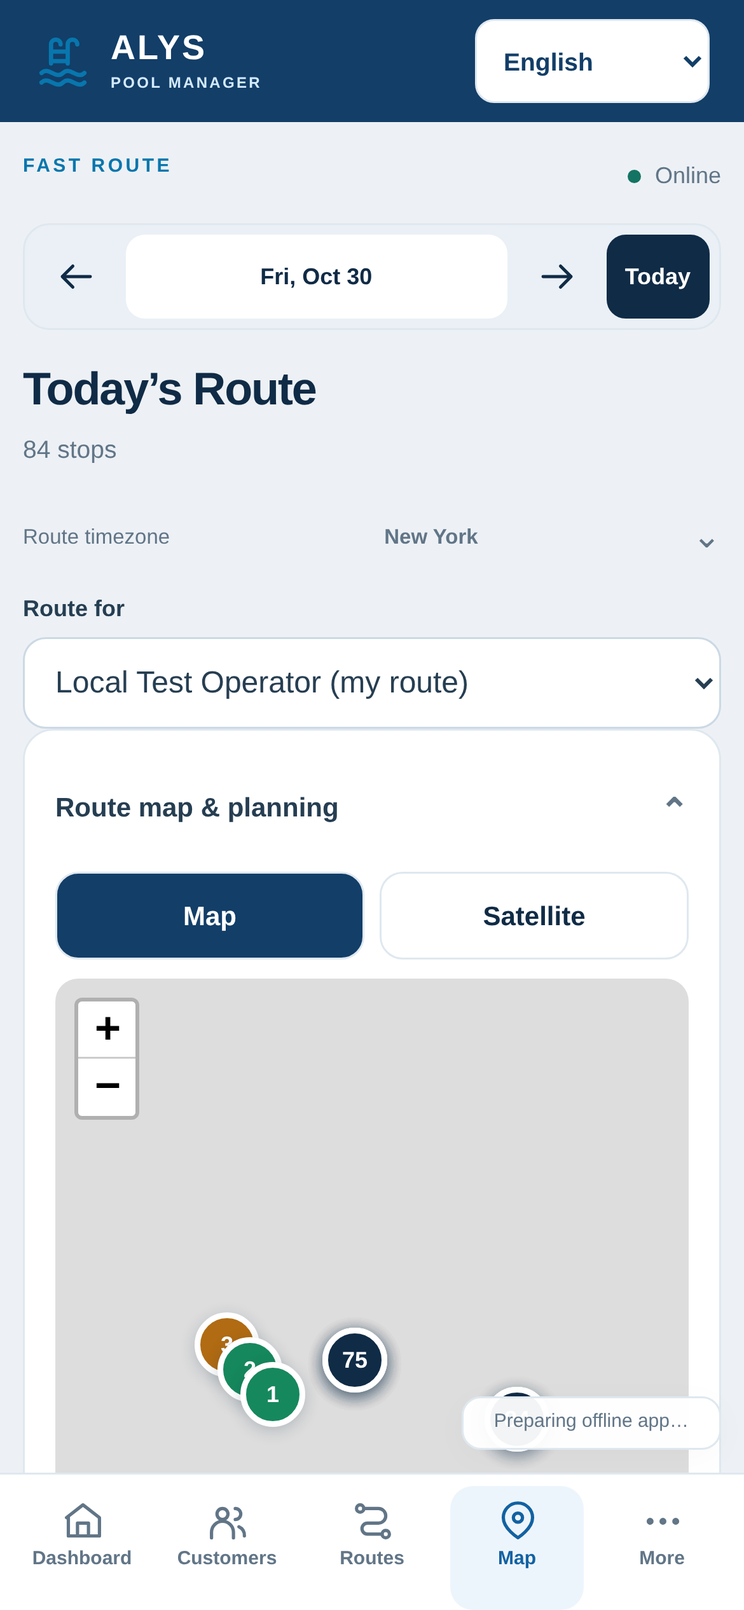
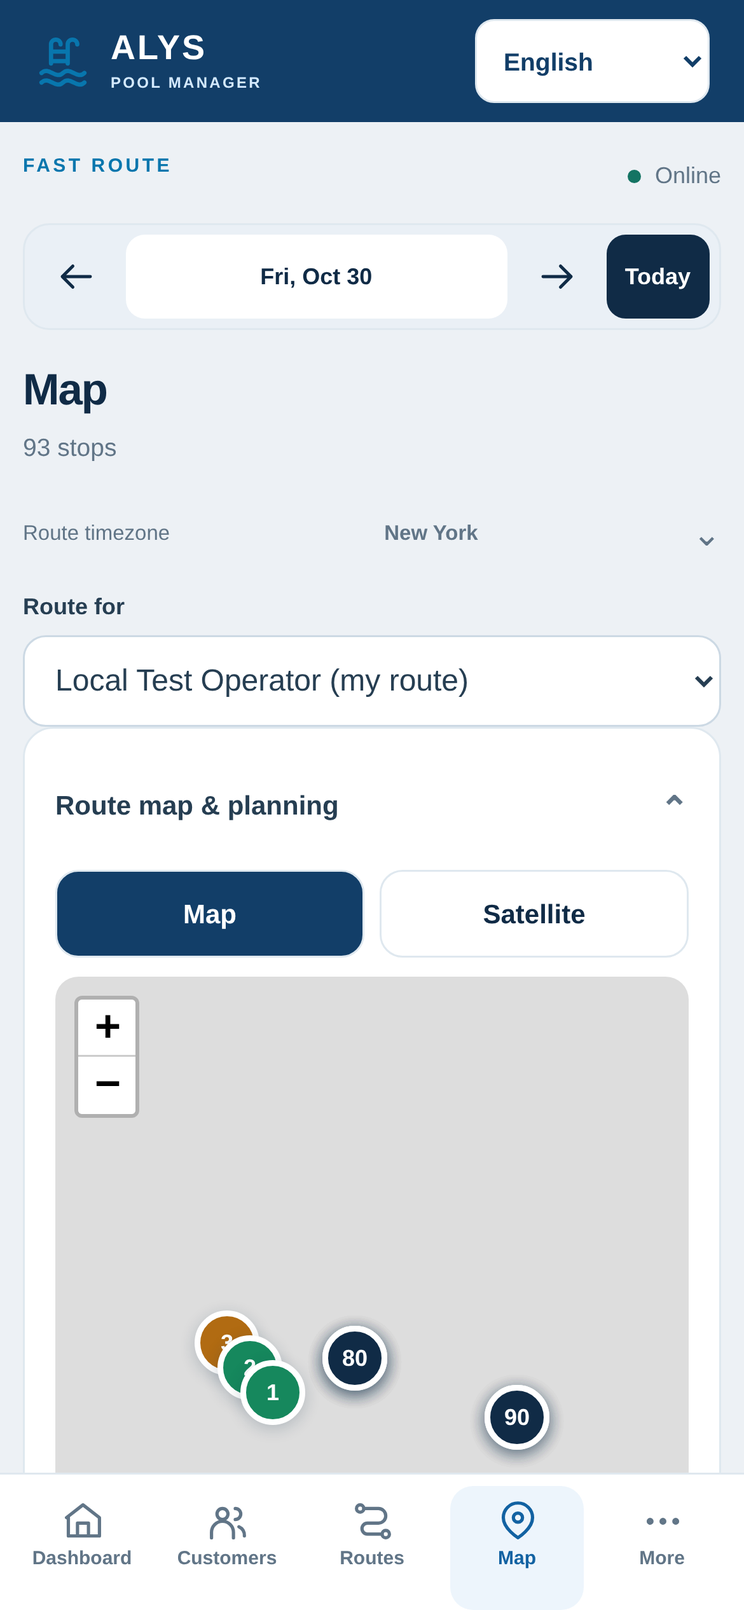
refine: compact V2.3 route overview and technician service controls

diff --git a/src/components/field/field-app.tsx b/src/components/field/field-app.tsx
@@ -234,9 +234,9 @@ export function FieldApp({initialStopId,initialDate,initialTimeZone="America/New
     {route&&scope&&(currentMode&&!routeList&&!stop?<CurrentPool route={route} stop={current} pending={queue.length} onStart={startStop} onRoute={()=>{setRouteList(true);openStop(null,'route');}} onDate={day=>{setDate(day);setRoute(null);setLoading(true);if(!offline)window.history.replaceState(null,'',`/service?date=${day}&timezone=${encodeURIComponent(timeZone)}`);}}/>:stop&&['completed','skipped'].includes(stop.status)&&!queuedIds.has(stop.id)?<div className="field-empty"><h1>{stop.property.name||stop.customer.name}</h1><p><T text={stop.status==='completed'?'This stop is already completed. Review its saved history.':'This stop was skipped. Restore it from your route before starting.'}/></p><button className="btn btn-secondary" onClick={()=>{setRouteList(true);openStop(null,'route');}}><T text="View all stops"/></button><Link className="btn btn-primary" href="/history"><T text="View history"/></Link></div>:stop?<VisitEditor unitSystem={route?.unitSystem} key={stop.id} stop={stop} index={serviceStops.indexOf(stop)+1} total={serviceStops.length} scope={scope} syncPanel={<>{workspaceAlerts}{syncPanel}</>} queued={queuedIds.has(stop.id)} onBack={()=>{setRouteList(true);openStop(null,'route');}} onPrevious={serviceStops.slice(0,serviceStops.findIndex(s=>s.id===stop.id)).reverse().find(s=>!['completed','skipped'].includes(s.status)&&!queuedIds.has(s.id))?()=>startStop(serviceStops.slice(0,serviceStops.findIndex(s=>s.id===stop.id)).reverse().find(s=>!['completed','skipped'].includes(s.status)&&!queuedIds.has(s.id))!):undefined} onNext={serviceStops.slice(serviceStops.findIndex(s=>s.id===stop.id)+1).find(s=>!['completed','skipped'].includes(s.status)&&!queuedIds.has(s.id))?()=>startStop(serviceStops.slice(serviceStops.findIndex(s=>s.id===stop.id)+1).find(s=>!['completed','skipped'].includes(s.status)&&!queuedIds.has(s.id))!):undefined} onSkip={()=>{setSkipTarget(stop);setSkipReason('');skipRequest.current=crypto.randomUUID();}} onComplete={completed}/>:<>
       {activeStopId&&!stop&&<p className="field-alert field-alert-warning"><T text="This stop is not in the selected route or is no longer assigned to you."/></p>}
       <RouteDateNavigation date={date} timeZone={timeZone} onChange={day=>{setDate(day);setActiveStopId(null);setLoading(true);setRoute(null);if(!offline)window.history.replaceState(null,'',`${mapMode?'/maps':isDaily?'/stops':'/route'}?date=${day}&timezone=${encodeURIComponent(timeZone)}`);}}/>
-      <header className="field-top"><div><h1 className="field-heading"><T text={isDaily?(date===serviceDay(new Date(),timeZone)?"Today’s Stops":"Assigned Stops"):"Today’s Route"}/></h1><p className="field-subtitle"><span className="route-heading-date"><DateText value={date} options={{weekday:'long',month:'short',day:'numeric',timeZone}}/> · </span>{displayStops.length} <T text="stop"/>{displayStops.length===1?'':<T text={'s'}/>}</p></div></header>
+      <header className="field-top"><div><h1 className="field-heading"><T text={mapMode?'Map':isDaily?(date===serviceDay(new Date(),timeZone)?"Today’s Stops":"Assigned Stops"):"Today’s Route"}/></h1><p className="field-subtitle"><span className="route-heading-date"><DateText value={date} options={{weekday:'long',month:'short',day:'numeric',timeZone}}/> · </span>{displayStops.length} <T text="stop"/>{displayStops.length===1?'':<T text={'s'}/>}</p></div></header>
       <details className="route-timezone-control"><summary><T text="Route timezone"/><span>{timeZone.split("/").at(-1)?.replaceAll("_"," ")}</span></summary><label className="field-input-label"><T text="Route timezone"/><select value={timeZone} onChange={e=>{const zone=e.target.value,day=serviceDay(new Date(),zone);setTimeZone(zone);setDate(day);if(!offline)window.history.replaceState(null,"",`${isDaily?"/stops":"/route"}?date=${day}&timezone=${encodeURIComponent(zone)}`);}}>{[...new Set([timeZone,'America/New_York','America/Sao_Paulo'])].map(tz=><option key={tz} value={tz}>{tz}</option>)}</select></label></details><div className="field-row">{route.role!=='technician'&&<label className="field-input-label field-grow"><T text="Route for"/><LocaleSelect value={selectedTechnician??route.userId} onChange={event=>setTechnician(event.target.value)}><option value="all"><T text="All technicians"/></option>{route.technicians?.map(person=><option key={person.id} value={person.id}>{person.display_name}{person.id===route.userId?<T text={" (my route)"}/>:''}</option>)}</LocaleSelect></label>}</div>
-      {<WeekCalendar timeZone={timeZone} date={date} onChange={day=>{setDate(day);setActiveStopId(null);}}/>}<div className="route-progress-ring" style={{background:`conic-gradient(var(--blue) ${displayStops.length?completeCount/displayStops.length*360:0}deg,#dce5ee 0)`}}><strong>{completeCount}/{displayStops.length}</strong></div><div className="field-progress" role="progressbar" aria-label={t("Completed visits")} aria-valuemin={0} aria-valuemax={displayStops.length||1} aria-valuenow={completeCount}><span style={{width:`${displayStops.length?completeCount/displayStops.length*100:0}%`}}/></div><div className="field-progress-copy"><strong>{completeCount} / {displayStops.length} <T text="completed · synced"/></strong><span>{remaining} <T text="remaining"/>{selectedQueuedCount?<T text={` · ${selectedQueuedCount} on device`}/>:null}</span></div>
+      {<WeekCalendar timeZone={timeZone} date={date} onChange={day=>{setDate(day);setActiveStopId(null);}}/>}<section className="route-service-summary"><div className="route-progress-ring" style={{background:`conic-gradient(var(--blue) ${displayStops.length?completeCount/displayStops.length*360:0}deg,#dce5ee 0)`}}><strong>{completeCount}/{displayStops.length}</strong></div><div className="field-progress" role="progressbar" aria-label={t("Completed visits")} aria-valuemin={0} aria-valuemax={displayStops.length||1} aria-valuenow={completeCount}><span style={{width:`${displayStops.length?completeCount/displayStops.length*100:0}%`}}/></div><div className="field-progress-copy"><strong>{completeCount} / {displayStops.length} <T text="completed · synced"/></strong><span>{remaining} <T text="remaining"/>{selectedQueuedCount?<T text={` · ${selectedQueuedCount} on device`}/>:null}</span></div></section>
       {isDaily&&<><div className="field-tabs" role="group" aria-label={t("Stop status")}>{['remaining','completed','skipped','all'].map(value=><button key={value} className={`field-button ${stopFilter===value?'':'field-button-secondary'}`} aria-pressed={stopFilter===value} onClick={()=>setStopFilter(value)}><T text={value==='remaining'?'Remaining':value==='completed'?'Completed':value==='skipped'?'Skipped':'All stops'}/></button>)}</div>{route.role!=='technician'&&<Link className="field-back" href="/route"><T text="Open weekly planner"/></Link>}</>}
       <div className={isDaily?'daily-stops':'route-workspace'}><div>{!displayStops.length?<div className="field-empty"><h2><T text={route.role==='technician'?'No assigned stops for this date.':'A clear route, ready to plan.'}/></h2><p><T text={route.role==='technician'?'Contact your owner to assign service stops.':'Add a stop below, or configure recurring service days in Clients.'}/></p></div>:<ol className="field-route-list">{displayStops.filter(item=>!isDaily||stopFilter==='all'||(stopFilter==='skipped'?item.status==='skipped':stopFilter==='completed'?item.status==='completed'||queuedIds.has(item.id):!['completed','skipped'].includes(item.status)&&!queuedIds.has(item.id))).map((item,index)=>{
         const queued=queuedIds.has(item.id),status=queued?(queue.find(q=>q.payload.stop_id===item.id)?.status==='pending'?'queued':'failed'):item.status;
@@ -336,8 +336,8 @@ function VisitEditor({stop,index,total,scope,queued,syncPanel,onBack,onPrevious,
     catch(cause){setError(messageOf(cause));setBusy(false);}
   }
   return <div className="field-service"><div className="service-context"><button className="icon-button" disabled={busy||photoBusy||saveStatus==='Saving draft…'} onClick={onBack} aria-label={t('← Back to route')}><Icon name="back"/></button><div><h1 className="field-heading">{stop.property.name||stop.customer.name}</h1><small>{stop.customer.name} · <T text="Stop"/> {index} / {total}</small></div><span className="field-badge field-badge-in_progress"><T text="In progress"/></span></div><details className="service-context-details"><summary><T text="Address & service instructions"/></summary><p className="field-subtitle">{stop.property.address}</p>{stop.property.gate_notes&&<p className="field-access">{stop.property.gate_notes}</p>}</details>{error&&<p className="field-alert field-alert-error" role="alert"><T text={error}/></p>}{queued&&<p className="field-alert field-alert-warning"><T text="This visit is queued. Retry sync from the route to preserve the saved submission."/></p>}{retiredPools.length>0&&<p className="field-alert field-alert-error" role="alert"><T text="Pool setup changed. This draft retains work for "/>{retiredPools.length} <T text="pool"/>{retiredPools.length===1?'':<T text={'s'}/>} <T text="no longer active at this property. Ask an administrator to restore or review the pool before completing; saved measurements are preserved."/></p>}{!visibleDraft?<div className="field-skeleton"/>:<>
-    <nav className="service-step-nav" aria-label={t('Service sections')}>{[['readings-','Readings'],['chemicals-','Chemicals'],['checklist-','Checklist']].map(([prefix,label])=><a key={prefix} href={'#'+prefix+(activePool==='info'?stop.pools[0]?.id:activePool)} onClick={()=>{if(activePool==='info')setActivePool(stop.pools[0]?.id??'');}}><T text={label}/></a>)}<a href="#service-photo"><T text="Photo"/></a></nav>{<div className="pool-tabs" role="tablist" aria-label={t('Pool / spa')}><button type="button" role="tab" id="tab-service-info" aria-controls="panel-service-info" aria-selected={activePool==='info'} onClick={()=>setActivePool('info')}><T text="Info"/></button>{stop.pools.map((pool,tabIndex)=><button key={pool.id} id={'tab-'+pool.id} type="button" role="tab" aria-selected={activePool===pool.id} aria-controls={'panel-'+pool.id} tabIndex={activePool===pool.id?0:-1} onClick={()=>{setActivePool(pool.id);setPhotoPool(pool.id);}} onKeyDown={event=>{if(!['ArrowRight','ArrowLeft'].includes(event.key))return;event.preventDefault();const next=stop.pools[(tabIndex+(event.key==='ArrowRight'?1:-1)+stop.pools.length)%stop.pools.length];setActivePool(next.id);setPhotoPool(next.id);document.getElementById('tab-'+next.id)?.focus();}}>{pool.name}</button>)}</div>}<div className="service-scroll"><div id="sync-recovery">{syncPanel}</div><div className="service-sequence"><button className="btn btn-secondary" disabled={!onPrevious||busy||photoBusy||saveStatus==='Saving draft…'} onClick={onPrevious}><Icon name="back"/><T text="Previous stop"/></button><button className="btn btn-secondary" disabled={!onNext||busy||photoBusy||saveStatus==='Saving draft…'} onClick={onNext}><T text="Next stop"/><Icon name="arrow"/></button><button className="field-button field-button-quiet field-button-small" disabled={queued||busy||photoBusy||saveStatus==='Saving draft…'} onClick={onSkip}><T text="Skip stop"/></button></div>
-    <section id="panel-service-info" className="field-section" role="tabpanel" aria-labelledby="tab-service-info" hidden={activePool!=='info'}><h2><T text="Info"/></h2><p>{stop.customer.name}</p><p>{stop.property.address}</p><p className="field-access">{stop.property.gate_notes}</p><h3><T text="Equipment and service notes"/></h3><p>{visibleDraft.service_details?.equipment_problems||<T text="No equipment notes."/>}</p><h3><T text="Email report"/></h3><p className="field-reference"><T text="Server-confirmed visits are saved independently of email."/></p><p className="field-reference"><T text="Only checked tasks and recorded values enter the report."/></p></section>{stop.pools.map(config=>{const pool=visibleDraft.pools.find(p=>p.pool_id===config.id);return pool?<div key={config.id} id={'panel-'+config.id} role={stop.pools.length>1?'tabpanel':undefined} aria-labelledby={stop.pools.length>1?'tab-'+config.id:undefined} hidden={activePool!==config.id}><PoolForm onChemicalPending={pendingChemical} preferenceScope={scope.organizationId+':'+scope.userId} unitSystem={effectiveUnits(stop.property.unit_system,unitSystem)} timeZone={stop.property.service_timezone} key={config.id} config={config} value={pool} history={stop.chemistry_history?.[config.id]??[]} previous={stop.last_readings?.[config.id]} disabled={queued||busy} onChange={next=>updatePool(config.id,next)}/></div>:null;})}
+{<div className="pool-tabs" role="tablist" aria-label={t('Pool / spa')}><button type="button" role="tab" id="tab-service-info" aria-controls="panel-service-info" aria-selected={activePool==='info'} onClick={()=>setActivePool('info')}><T text="Info"/></button>{stop.pools.map((pool,tabIndex)=><button key={pool.id} id={'tab-'+pool.id} type="button" role="tab" aria-selected={activePool===pool.id} aria-controls={'panel-'+pool.id} tabIndex={activePool===pool.id?0:-1} onClick={()=>{setActivePool(pool.id);setPhotoPool(pool.id);}} onKeyDown={event=>{if(!['ArrowRight','ArrowLeft'].includes(event.key))return;event.preventDefault();const next=stop.pools[(tabIndex+(event.key==='ArrowRight'?1:-1)+stop.pools.length)%stop.pools.length];setActivePool(next.id);setPhotoPool(next.id);document.getElementById('tab-'+next.id)?.focus();}}>{pool.name}</button>)}</div>}    <nav className="service-step-nav" aria-label={t('Service sections')}>{[['readings-','Readings'],['chemicals-','Chemicals'],['checklist-','Checklist']].map(([prefix,label])=><a key={prefix} href={'#'+prefix+(activePool==='info'?stop.pools[0]?.id:activePool)} onClick={()=>{if(activePool==='info')setActivePool(stop.pools[0]?.id??'');}}><T text={label}/></a>)}<a href="#service-photo"><T text="Photo"/></a></nav><div className="service-scroll"><div id="sync-recovery">{syncPanel}</div><div className="service-sequence"><button className="btn btn-secondary" disabled={!onPrevious||busy||photoBusy||saveStatus==='Saving draft…'} onClick={onPrevious}><Icon name="back"/><T text="Previous stop"/></button><button className="btn btn-secondary" disabled={!onNext||busy||photoBusy||saveStatus==='Saving draft…'} onClick={onNext}><T text="Next stop"/><Icon name="arrow"/></button><button className="field-button field-button-quiet field-button-small" disabled={queued||busy||photoBusy||saveStatus==='Saving draft…'} onClick={onSkip}><T text="Skip stop"/></button></div>
+    <section id="panel-service-info" className="field-section" role="tabpanel" aria-labelledby="tab-service-info" hidden={activePool!=='info'}><h2><T text="Info"/></h2><p>{stop.customer.name}</p><p>{stop.property.address}</p><p className="field-access">{stop.property.gate_notes}</p><h3><T text="Equipment and service notes"/></h3><p>{visibleDraft.service_details?.equipment_problems||<T text="No equipment notes."/>}</p><h3><T text="Email report"/></h3><p className="field-reference"><T text="Server-confirmed visits are saved independently of email."/></p><p className="field-reference"><T text="Only checked tasks and recorded values enter the report."/></p></section>{stop.pools.map(config=>{const pool=visibleDraft.pools.find(p=>p.pool_id===config.id);return pool?<div key={config.id} id={'panel-'+config.id} role="tabpanel" aria-labelledby={'tab-'+config.id} hidden={activePool!==config.id}><PoolForm onChemicalPending={pendingChemical} preferenceScope={scope.organizationId+':'+scope.userId} unitSystem={effectiveUnits(stop.property.unit_system,unitSystem)} timeZone={stop.property.service_timezone} key={config.id} config={config} value={pool} history={stop.chemistry_history?.[config.id]??[]} previous={stop.last_readings?.[config.id]} disabled={queued||busy} onChange={next=>updatePool(config.id,next)}/></div>:null;})}
     <details className="field-section" open={!!visibleDraft.issue_flags?.length}><summary><T text="Issue flags"/></summary><div className="field-issue-flags">{ISSUE_FLAGS.map(flag=><button key={flag} type="button" className="field-shortcut" aria-pressed={visibleDraft.issue_flags?.includes(flag)??false} disabled={busy||queued} onClick={()=>update({...visibleDraft,issue_flags:visibleDraft.issue_flags?.includes(flag)?visibleDraft.issue_flags.filter(f=>f!==flag):[...(visibleDraft.issue_flags??[]),flag]})}><T text={ISSUE_LABELS[flag]}/></button>)}</div><p className="field-tiny"><T text="Flags describe issues; they do not complete checklist tasks or waive required readings and photos."/></p></details>
     <section className="field-section service-anchor" id="service-photo"><p className="field-section-letter"><T text="D · SERVICE PHOTO"/></p><div className="field-section-title"><h2><T text="Show the finished service"/></h2><span className="field-tiny">{photos.length} / 3</span></div>{stop.pools.length>1&&<label className="field-input-label"><T text="Photo for pool / spa"/><LocaleSelect aria-label="Photo for pool / spa" value={photoPool} disabled={photoBusy||queued} onChange={e=>setPhotoPool(e.target.value)}>{stop.pools.map(p=><option key={p.id} value={p.id}>{p.name}</option>)}</LocaleSelect></label>}{photos.length<3&&!queued&&<PhotoCapture busy={photoBusy} disabled={busy} required={stop.pools.some(p=>p.photo_required)} onCapture={capture}/>}<div className="field-photos">{photos.map(photo=><PhotoPreview key={photo.id+(photo.upload_blob?"-prepared":"-source")} photo={photo} readonly={queued||photoBusy||busy} onRemove={()=>{if(queued)return;void removePhoto(scope,photo.id).then(()=>setPhotos(items=>items.filter(item=>item.id!==photo.id))).catch(cause=>setError(messageOf(cause)));}}/>)}</div><p className="field-tiny"><T text={photos.length?"Photos stay on this device until the server confirms the visit. Upload continues when this app is open.":"Capture a photo to save it locally. A preview does not confirm upload."}/></p></section>
     <details className="field-section"><summary><T text="Customer note"/></summary><label className="field-input-label"><T text="Service note "/><span className="field-reference"><T text="Included in the customer report. Do not add gate codes or private notes."/></span><LocaleTextarea maxLength={2000} value={visibleDraft.notes} disabled={queued||busy} placeholder="Optional service information for the customer" onChange={event=>update({...visibleDraft,notes:event.target.value})}/></label></details>

diff --git a/tests/integration/v23-mobile.spec.ts b/tests/integration/v23-mobile.spec.ts
@@ -11,7 +11,7 @@ test('V2.3 five destinations, weekly route, map layers and mobile screens',async
  if(!['localhost','127.0.0.1'].includes(new URL(fixture.url).hostname))throw new Error('Local tests only');
  const db=createClient(fixture.url,process.env.SUPABASE_SERVICE_ROLE_KEY!,{auth:{persistSession:false}}),customer=randomUUID(),property=randomUUID(),stop=randomUUID();
  for(const [table,row] of [['customers',{id:customer,organization_id:fixture.orgId,name:'Fictional V23 customer'}],['properties',{id:property,organization_id:fixture.orgId,customer_id:customer,name:'V23 service property',address:'Fictional service address',latitude:26.12,longitude:-80.13,location_confirmed:true}],['route_stops',{id:stop,organization_id:fixture.orgId,property_id:property,technician_id:fixture.userId,service_date:fixture.date,position:1000}]] as const)expect((await db.from(table).insert(row)).error).toBeNull();
- for(const name of ['Pool','Spa'])expect((await db.from('pools').insert({organization_id:fixture.orgId,property_id:property,name,gallons:name==='Pool'?12000:1000,type:name==='Pool'?'residential':'spa',water_type:'chlorine',required_readings:['fc','ph']})).error).toBeNull();
+ for(const name of ['Pool','Spa'])expect((await db.from('pools').insert({organization_id:fixture.orgId,property_id:property,name,gallons:name==='Pool'?12000:1000,type:name==='Pool'?'residential':'spa',water_type:'chlorine',checklist:['Test Water','Brush Pool'],required_readings:['fc','ph']})).error).toBeNull();
  const screens=[['dashboard','/'],['route','/route'],['map','/maps'],['customers','/customers'],['customer','/customers/'+fixture.stops[0].customerId],['settings','/settings'],['service','/visit/'+stop]];
- for(const language of ['en','pt','es'] as Language[]){await page.getByRole('combobox',{name:/Language|Idioma/}).selectOption(language);for(const [name,url] of screens){await page.goto(url);await expect(page.locator('h1').first()).toBeVisible();if(name==='map')await expect(page.locator('.leaflet-container').first()).toBeVisible();if(['route','service'].includes(name))await expect(page.locator('.route-progress-ring,.field-service').first()).toBeVisible();if(name==='customers')await expect(page.locator('.customer-table')).toBeVisible();await expect(page.locator('.mobile-tabbar a')).toHaveCount(5);for(const width of [320,390,430]){await page.setViewportSize({width,height:844});expect(await page.evaluate(()=>document.documentElement.scrollWidth<=innerWidth),language+' '+name+' '+width).toBe(true);}if(language==='en'){await page.setViewportSize({width:390,height:844});await page.screenshot({path:info.outputPath(name+'.png')});}if(name==='service'){await page.getByRole('tab',{name:translate('Info',language),exact:true}).click();await expect(page.locator('#panel-service-info')).toBeVisible();if(language==='en')await page.screenshot({path:info.outputPath('service-info.png')});await page.getByRole('tab',{name:'Spa',exact:true}).click();await expect(page.getByRole('tab',{name:'Spa',exact:true})).toHaveAttribute('aria-selected','true');if(language==='en')await page.screenshot({path:info.outputPath('service-spa.png')});await page.getByRole('tab',{name:'Pool',exact:true}).click();}if(name==='map'){const satellite=page.getByRole('button',{name:translate('Satellite',language),exact:true});await satellite.click();await expect(satellite).toHaveAttribute('aria-pressed','true');await page.getByRole('button',{name:translate('Map',language),exact:true}).click();}}}
+ for(const language of ['en','pt','es'] as Language[]){await page.getByRole('combobox',{name:/Language|Idioma/}).selectOption(language);for(const [name,url] of screens){await page.goto(url);await expect(page.locator('h1').first()).toBeVisible();if(name==='map')await expect(page.locator('.leaflet-container').first()).toBeVisible();if(['route','service'].includes(name))await expect(page.locator('.route-progress-ring,.field-service').first()).toBeVisible();if(name==='customers')await expect(page.locator('.customer-table')).toBeVisible();await expect(page.locator('.mobile-tabbar a')).toHaveCount(5);for(const width of [320,390,430]){await page.setViewportSize({width,height:844});expect(await page.evaluate(()=>document.documentElement.scrollWidth<=innerWidth),language+' '+name+' '+width).toBe(true);}if(language==='en'){await page.setViewportSize({width:390,height:844});await page.screenshot({path:info.outputPath(name+'.png')});}if(name==='service'){const tabs=await page.locator('.pool-tabs').boundingBox(),shortcuts=await page.locator('.service-step-nav').boundingBox();expect(tabs!.y).toBeLessThan(shortcuts!.y);await page.getByRole('checkbox',{name:translate('Test Water',language),exact:true}).check();await expect(page.locator('.checklist-count').first()).toContainText('1 / 2');await page.getByRole('tab',{name:translate('Info',language),exact:true}).click();await expect(page.locator('#panel-service-info')).toBeVisible();if(language==='en')await page.screenshot({path:info.outputPath('service-info.png')});await page.getByRole('tab',{name:'Spa',exact:true}).click();await expect(page.getByRole('tab',{name:'Spa',exact:true})).toHaveAttribute('aria-selected','true');if(language==='en')await page.screenshot({path:info.outputPath('service-spa.png')});await page.getByRole('tab',{name:'Pool',exact:true}).click();}if(name==='map'){const satellite=page.getByRole('button',{name:translate('Satellite',language),exact:true});await satellite.click();await expect(satellite).toHaveAttribute('aria-pressed','true');await page.getByRole('button',{name:translate('Map',language),exact:true}).click();}}}
 });

diff --git a/src/app/globals.css b/src/app/globals.css
@@ -36,3 +36,6 @@
 @media(max-width:900px){.content{padding:16px 12px calc(88px + env(safe-area-inset-bottom))}.page-header{margin-bottom:16px}.page-header h1{font-size:25px}.surface,.panel,.field-section{box-shadow:0 2px 8px #123e6808}.field-stop{border-left:4px solid #7293af;border-radius:14px;background:white}.field-stop:has(.field-badge-completed){border-left-color:#16885d}.field-stop:has(.field-badge-failed){border-left-color:#c43f4b}.field-stop-number{background:#123e68;color:white;border-radius:10px}.route-calendar-controls{gap:6px}.route-calendar-controls button{font-size:11px;min-height:44px;padding:6px}.route-days{gap:3px}.route-days button{min-width:0;min-height:56px;padding:5px 1px;border-radius:10px}.route-days .chosen{background:#123e68;color:white}.route-days span{font-size:10px}.pool-tabs{display:flex;gap:4px;position:sticky;top:calc(var(--header-height) + env(safe-area-inset-top));z-index:20;background:#edf1f5;padding:8px 0;flex-wrap:wrap}.pool-tabs button{flex:1;min-height:48px;min-width:64px;white-space:normal;overflow-wrap:anywhere}.field-check{min-height:50px;border-bottom:1px solid #e6edf3}.field-check:has(input:checked){background:#eef8f3;color:#176344}.field-reading-priority{border:1px solid #b6d3e8;border-radius:14px;padding:12px;background:#f5faff}.route-map{height:48vh;min-height:260px}.quick-actions{gap:8px}.quick-actions .btn{min-height:52px;white-space:normal}.team-editor{min-width:0}.service-context{gap:8px}.service-context h1{font-size:21px}.field-stop-actions{gap:8px}.btn,.field-button{white-space:normal;overflow-wrap:anywhere}}
 .route-number-marker span.completed{background:#16885d}.route-number-marker span.skipped{background:#79838b}.route-number-marker span.in_progress{background:#b16b12}
 .map-workspace .route-calendar,.map-workspace .route-progress-ring,.map-workspace .field-progress,.map-workspace .field-progress-copy{display:none}.map-workspace .route-workspace{display:flex;flex-direction:column}.map-workspace .route-planner{order:-1}.map-workspace .route-map{height:50vh}.map-workspace .field-heading{font-size:24px}
+/* V2.3 reference refinement: short route overview and clear service hierarchy. */
+.route-service-summary{display:grid;grid-template-columns:76px minmax(0,1fr);align-items:center;gap:12px;background:#fff;border:1px solid var(--line);border-radius:14px;padding:12px;margin:12px 0}.route-service-summary .route-progress-ring{width:70px;height:70px;padding:6px;margin:0}.route-service-summary .route-progress-ring strong{width:58px;height:58px;font-size:19px}.route-service-summary .field-progress{position:absolute;width:1px;height:1px;overflow:hidden;clip-path:inset(50%)}.route-service-summary .field-progress-copy{display:flex;flex-direction:column;align-items:flex-start;gap:6px;margin:0;font-size:13px}.map-workspace .route-service-summary{display:none}.checklist-count{padding:10px 12px;margin:0;color:var(--muted);font-size:12px;border-bottom:1px solid var(--line)}
+@media(max-width:900px){.field-top{margin:10px 0}.field-top .field-heading{font-size:23px}.route-timezone-control{margin:6px 0}.route-calendar{margin:10px 0}.route-calendar-controls{margin-bottom:6px}.route-calendar-controls button{min-height:36px}.route-service-summary+.field-tabs{margin-top:8px}.field-stop{padding:12px}.field-stop-copy p{margin:3px 0}.field-stop-title{font-size:17px}.field-stop-actions .field-grow{min-height:48px}.pool-tabs{margin:6px 0 0;padding:6px 0;top:0}.pool-tabs button{border-radius:0;border:0;border-bottom:3px solid transparent;background:white;color:var(--muted)}.pool-tabs button[aria-selected=true]{color:var(--blue);border-bottom-color:var(--blue);background:#fff}.service-step-nav{gap:4px;margin:4px 0 8px}.service-step-nav a{padding:8px 4px;font-size:11px;min-height:40px}.field-checklist{gap:0;border:1px solid var(--line);border-radius:12px;overflow:hidden}.field-check{margin:0;border-radius:0;padding:12px;min-height:52px}.field-check input{width:24px;height:24px;flex:none;accent-color:#16885d}.chemical-choice{min-height:52px;text-align:left;padding:10px;gap:8px;border-radius:10px}.chemical-entry{padding:12px;border:1px solid #bed8eb;border-radius:12px;background:#f6fbff}.field-shortcuts{gap:6px}.field-shortcuts button{min-height:46px}.field-photo-actions{gap:8px}.field-photo-control{min-height:88px;padding:14px;border-radius:12px}.field-library-control{min-height:48px}.field-photos{gap:8px}.field-photo{border-radius:12px;overflow:hidden}.field-section{margin:10px 0;border-radius:12px}.field-section-letter{margin-bottom:8px}.service-context-details{margin:4px 0}.service-sequence{gap:6px}.service-sequence .btn{font-size:11px;min-height:40px;padding:6px}}

diff --git a/src/components/field/service-controls.tsx b/src/components/field/service-controls.tsx
@@ -3,7 +3,7 @@ import {T,LocaleInput,useLanguage} from '@/components/i18n';
 import {Icon} from '@/components/design/icon';
 import type {ReactNode,ChangeEvent} from 'react';
 export function ReadingInput({label,name,value,onChange,min=0,max,required=false,disabled=false,choices=[],reference}:{label:string;name:string;value:number|undefined;onChange:(value:number|undefined)=>void;min?:number;max:number;required?:boolean;disabled?:boolean;choices?:{value:number;label:string;accessible:string}[];reference?:ReactNode}){const {t}=useLanguage();return <div className={'field-input-label '+(choices.length?'field-reading-priority':'')}><label className="field-input-label"><T text={label}/>{required?' *':''}<LocaleInput aria-label={name} type="number" inputMode="decimal" step="any" min={min} max={max} value={value??''} disabled={disabled} onChange={e=>onChange(e.target.value===''?undefined:Number(e.target.value))} onKeyDown={e=>{if(e.key!=='Enter')return;e.preventDefault();const form=e.currentTarget.closest('.field-service');const inputs=Array.from(form?.querySelectorAll<HTMLInputElement>('input[type=number]:not(:disabled)')??[]).filter(input=>input.offsetParent!==null);inputs[inputs.indexOf(e.currentTarget)+1]?.focus();}}/></label>{choices.length>0&&<div className="field-reading-options" role="group" aria-label={t('Quick reading values')+': '+t(label)}>{choices.map(c=><button className="field-shortcut" key={c.value} type="button" disabled={disabled} aria-label={c.accessible} aria-pressed={value===c.value} onClick={()=>onChange(c.value)}>{c.label}</button>)}</div>}{reference}</div>;}
-export function ServiceChecklist({tasks,selected,disabled,onChange}:{tasks:string[];selected:string[];disabled:boolean;onChange:(tasks:string[])=>void}){return <div className="field-checklist">{tasks.map(task=><label className="field-check" key={task}><LocaleInput type="checkbox" checked={selected.includes(task)} disabled={disabled} onChange={event=>onChange(event.target.checked?[...selected,task]:selected.filter(v=>v!==task))}/><T text={task}/></label>)}</div>;}
+export function ServiceChecklist({tasks,selected,disabled,onChange}:{tasks:string[];selected:string[];disabled:boolean;onChange:(tasks:string[])=>void}){return <div className="field-checklist"><p className="checklist-count" role="status">{selected.filter(task=>tasks.includes(task)).length} / {tasks.length} <T text="Tasks completed"/></p>{tasks.map(task=><label className="field-check" key={task}><LocaleInput type="checkbox" checked={selected.includes(task)} disabled={disabled} onChange={event=>onChange(event.target.checked?[...selected,task]:selected.filter(v=>v!==task))}/><T text={task}/></label>)}</div>;}
 export function PhotoCapture({busy,disabled,required,onCapture}:{busy:boolean;disabled:boolean;required:boolean;onCapture:(file:File)=>void|Promise<void>}){
  const {t}=useLanguage();
  async function select(event:ChangeEvent<HTMLInputElement>){const input=event.currentTarget,file=input.files?.[0];try{if(file)await onCapture(file);}finally{input.value='';}}

diff --git a/docs/V23-MOBILE-UX.md b/docs/V23-MOBILE-UX.md
@@ -75,3 +75,13 @@ Capturas reais do teste, com dados fictícios:
 | Sessão ausente | [sync-auth-required](screenshots/v23/sync-auth-required.png) |
 | Foto pendente com falha | [sync-failed-photo](screenshots/v23/sync-failed-photo.png) |
 | Histórico confirmado | [sync-confirmed-history](screenshots/v23/sync-confirmed-history.png) |
+
+## Refinamento com as dez referências
+
+Nesta revisão foram analisadas as dez imagens anexadas na conversa, incluindo as telas adicionais de Settings e Customers. O diretório solicitado `docs/ux-references/v23` não existe no checkout nem na branch remota consultada; não foram inventados arquivos de referência ou inseridas imagens codificadas.
+
+O resumo da rota agora é um cartão horizontal compacto, com anel e contadores; a barra duplicada continua disponível para tecnologia assistiva. Info/Pool/Spa aparecem antes dos atalhos da visita. Todos os painéis dos corpos d’água têm semântica de tabpanel, inclusive quando há apenas um. O checklist mostra tarefas marcadas/total e mantém seleção de um toque. Químicos, quantidades e captura/galeria têm espaçamento e estados visuais consistentes. O cabeçalho de Maps foi corrigido para identificar a tela.
+
+O refinamento modifica somente apresentação/componentes de campo e o teste visual. Nenhuma mudança em APIs de negócio, banco, RLS, IndexedDB, uploads, idempotência ou relatórios. O teste visual agora confere também a ordem das abas e o contador após marcar uma tarefa. As capturas abaixo são atualizadas com os resultados desta rodada, sempre com dados fictícios. O aceite físico no iPhone e a disponibilidade dos tiles externos continuam pendentes conforme a lista anterior.
+
+Validação desta revisão: lint, typecheck e build aprovados; 139 testes unitários e 10 cenários mobile/offline aprovados (sem retries), incluindo a nova checagem de hierarquia das abas e contador do checklist. EN/PT/ES em 320, 390 e 430 px. Screenshots atualizadas em `docs/screenshots/v23`. Não houve teste em aparelho físico, merge, deploy ou migration remota.
